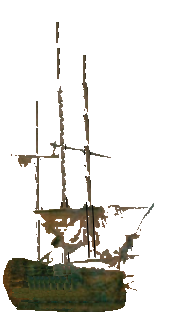
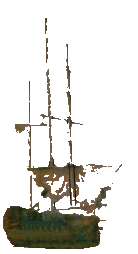
asdf

diff --git a/src/ani_helpers.py b/src/ani_helpers.py
@@ -9,7 +9,8 @@ def warp_affine_and_color(ii, ax, im_ax, g_obj, ch, parent_obj=None):
 	ax and im_ax are needed since the ax is removed from im_ax
 	g_obj is the info container of the ax (class)
 	g_obj is ship, sail or likewise
-
+	Note expl color changes are applied for sails and smokes for the ship that fires.
+	Waves have to be sorted out some other way.
 	"""
 
 	im_ax[g_obj.index_im_ax].remove()  # BOTH NECESSARY
@@ -17,18 +18,15 @@ def warp_affine_and_color(ii, ax, im_ax, g_obj, ch, parent_obj=None):
 
 	t0 = g_obj.tri_base
 	t1 = g_obj.tris[g_obj.clock]
-	pic = g_obj.pic.copy()  # pic with base scale always used.
+	pic_c = g_obj.pic.copy()  # pic with base scale always used.
 	if P.A_HSV_TRANSFORM:  # and parent_obj != None:
-		pic = change_brightness_contrast(pic, ii, g_obj)
+		change_brightness_contrast(pic_c, ii, g_obj)  # OBS overwrites the static image AND changes pic (copy)
 
 	if P.A_SAIL_HEIGHTS_TROUGHS_TRANSFORM and g_obj.__class__.__name__ == 'Sail':
-		# pic = g_obj.apply_heights_troughs_transform(pic, ch['ships'][parent_obj.gi['id']]['firing_frames'], i)
-		pic = g_obj.apply_heights_troughs_transform(pic, ii)
-		# pic = g_obj.apply_heights_troughs_transform(pic, i)
-
+		pic = g_obj.apply_heights_troughs_transform(pic_c, ii)
 
 	M = cv2.getAffineTransform(t0, t1)
-	dst = cv2.warpAffine(pic, M, (int(g_obj.tri_ext['max_ri']), int(g_obj.tri_ext['max_do'])))
+	dst = cv2.warpAffine(pic_c, M, (int(g_obj.tri_ext['max_ri']), int(g_obj.tri_ext['max_do'])))
 	img = np.zeros((g_obj.mask_do, g_obj.mask_ri, 4))
 	img[img.shape[0] - dst.shape[0]:, img.shape[1] - dst.shape[1]:, :] = dst
 	im_ax.insert(g_obj.index_im_ax, ax.imshow(img, zorder=g_obj.gi['zorder'], alpha=1))
@@ -69,34 +67,47 @@ def decrement_all_index_im_ax(index_removed, ships, waves):
 
 def change_brightness_contrast(pic, ii, g_obj):
 	"""
+	R   G   B   !   !   !
 	https://stackoverflow.com/questions/39308030/how-do-i-increase-the-contrast-of-an-image-in-python-opencv
 
-	Might get super expensive to do this for ships at each frame
+	Might get super expensive to do this for ships at each frame. So instead set
 	expl_at_coords: coordinates where there are active expls this frame (the expl "event" continues more frames
 	than the expl is shown).
 
-	OBS if brightness reaches threshold things WILL get messed up, e.g. brightness cannot be restored ok.
-		:param value:
-		:param ship_pic:
-		:return:
+	Not applied for expls
 
 	"""
 	if g_obj.__class__.__name__ != 'Sail':  # TEMP
 		return pic
 
+	# HARDCODED UPDATES (ONLY DARKENING) =================
+	if P.A_HARDCODED_DARKENING == 1:
+		ship_ab_at_clock = g_obj.ship.gi['alpha_and_bright'][g_obj.ship.ab_clock]
+		if ii == ship_ab_at_clock[0]:
+
+			# brightness TODO: will need lots of tuning
+			g_obj.pic[:, :, 0] = g_obj.pic[:, :, 0] * ship_ab_at_clock[2]
+			g_obj.pic[:, :, 1] = g_obj.pic[:, :, 1] * ship_ab_at_clock[2]
+			g_obj.pic[:, :, 2] = g_obj.pic[:, :, 2] * ship_ab_at_clock[2]
+
+	# FIRING UPDATES = ===================
 	if ii in g_obj.ship.gi['firing_frames']:
-		ex = 0.95
+		ex = 1.84
 		# if iii in firing_frames:
 		# 	ex = 0.84  # decrease in green and blue
 		# pic = _s.pic.copy()  # REQUIRED
-		pic[:, :, 0] = pic[:, :, 0]   # more y=more red, less=more green
+		pic[:, :, 0] = pic[:, :, 0] * ex  # more y=more red, less=more green
+		pic[:, :, 0][pic[:, :, 0] > 1.0] = 1.0
 		pic[:, :, 1] = pic[:, :, 1] * ex   # more y=more green, less=more red
+		pic[:, :, 1][pic[:, :, 1] > 1.0] = 1.0
 		pic[:, :, 2] = pic[:, :, 2] * ex  # Needed to complement red and green
+		pic[:, :, 2][pic[:, :, 2] > 1.0] = 1.0
 
 
 
 	aa = 5
 
+	# HSV (perhaps not needed)
 	# img = ship_pic
 	# hsv = cv2.cvtColor(pic, cv2.COLOR_BGR2HSV)
 	# h, s, v = cv2.split(hsv)

diff --git a/images/image_processing.py b/images/image_processing.py
@@ -18,18 +18,19 @@ THRESHOLD_SHIP_EXPL = 0.99
 
 
 def process_alpha(pic_in, file_name):
-    """BRG!!! """
+    """RGB!!! """
 
+    THRESHOLD_R = 0.98
     THRESHOLD_B = 0.92
     THRESHOLD_G = 0.98
-    THRESHOLD_R = 0.98
 
-    if file_name.split('.')[0] in ['0', '1', '2', '3', '4', '5', '6', '7', '0',]:
+
+    if file_name.split('.')[0] in ['0', '1', '2', '3', '4', '5', '6', '7', '0',]:  # ships (not as strict).
+        THRESHOLD_R = 0.5
         THRESHOLD_B = 0.5
         THRESHOLD_G = 0.5
-        THRESHOLD_R = 0.5
 
-        asdf = 5
+
     save_status = 1  # 0: don't save, 1: save right now
 
     if pic_in.shape[2] == 3:  # if no alpha layer -> create it
@@ -38,12 +39,13 @@ def process_alpha(pic_in, file_name):
 
     pic = pic_in.copy()
 
+    alpha_r = np.where(pic_in[:, :, 2] > THRESHOLD_R, 0.0, 1)  # where alpha should be 1, and 0 otherwise
     alpha_b = np.where(pic_in[:, :, 0] > THRESHOLD_B, 0.0, 1)  # alpha should be 0 wherever things are too white
     alpha_g = np.where(pic_in[:, :, 1] > THRESHOLD_G, 0.0, 1)  # if it's too bright make it 0, 1 otherwise
-    alpha_r = np.where(pic_in[:, :, 2] > THRESHOLD_R, 0.0, 1)  # where alpha should be 1, and 0 otherwise
+
 
     if file_name[0:4] == 'expl':  # this may be unmaintainable
-        prod = alpha_r
+        prod = alpha_r  # because expl is really white to start with
     else:
         prod = alpha_g * alpha_b * alpha_r  # this sets more frames to 0.0
 
@@ -266,7 +268,7 @@ for folder_name_outer in folder_names_outer:
         for file_name in file_names_inner:
 
             file_name_split = file_name.split('_')
-            if file_name_split[0] == 'expl':
+            if file_name == 'w_0_369_272.png':
                 adf = 5
             # if 'm.png' in file_name_split:
             #     continue  # masks are loaded separately below

diff --git a/src/trig_functions.py b/src/trig_functions.py
@@ -44,6 +44,11 @@ def _sigmoid(x, grad_magn_inv=None, x_shift=None, y_magn=None, y_shift=None):
 	return (1 / (math.exp(-x / grad_magn_inv + x_shift) + y_magn)) + y_shift  # finfin
 
 
+def sin_exp_experiment(X):
+	Y = (0.2 * np.sin(X) + 0.05 * np.sin(X) + 0.4 * np.log(X) / np.log(P.FRAMES_TOT)) - 0.1
+	return Y
+
+
 if __name__ == '__main__':
 
 	fig, ax = plt.subplots(figsize=(10, 6))
@@ -55,6 +60,14 @@ if __name__ == '__main__':
 	# SMOKA ============
 	X = np.arange(0, 50, 1)  # large: 960
 	Y = np.asarray(([_sigmoid(x, grad_magn_inv=- len(X) / 10, x_shift=-6, y_magn=1.2, y_shift=0) for x in X]))  # smoka
+
+	# FIr:
+	X = np.arange(0, 50, 1)  # large: 960
+	Y = sin_exp_experiment(X)
+	'''
+	Need do create candidate list and check mass and see whether there are too many 
+	fires per moving average unit. 
+	'''
 
 	ax.plot(X, Y, '-')
 	# plt.xlim([-5, NUM])

diff --git a/src/layers/abstract.py b/src/layers/abstract.py
@@ -17,6 +17,7 @@ class AbstractLayer:
     def __init__(_s):
         _s.drawn = 0  # 0: not drawn, 1: start drawing, 2. continue drawing, 3. end drawing, 4: dynamic flag usage
         _s.clock = 0
+        _s.ab_clock = 0  # alpha_brightness clock
         _s.frames_num = None  # number of frames to animate for
         _s.frame_ss = None
         # _s.frame_ss_start_offset = None

diff --git a/temp.py b/temp.py
@@ -5,11 +5,13 @@ import matplotlib.pyplot as plt
 
 fig, ax = plt.subplots(figsize=(12, 8))
 
-# x = np.linspace(0, 1.0, 100)
-x = np.linspace(0, 1.0, 100)
-ax.plot(x, norm.pdf(x, loc=0.5, scale=0.15) / 2.7, 'r-', lw=5, alpha=0.6, label='norm pdf')
+A = np.random.random((3, 6))
+ex = 1.3
+A = A * ex
+A[A > 1.0] = 1.0
+
 
 plt.show()
-ff = 5
+
 
 # HOW TO

diff --git a/P.py b/P.py
@@ -10,11 +10,12 @@ FRAMES_TOT = FRAMES_STOP - FRAMES_START
 # A (what to animate) ========
 A_AFFINE_TRANSFORM = 1
 A_SAILS = 1
-A_SAIL_HEIGHTS_TROUGHS_TRANSFORM = 1
+A_SAIL_HEIGHTS_TROUGHS_TRANSFORM = 0
 A_HSV_TRANSFORM = 1
 A_SMOKAS = 0
 A_WAVES = 0
 A_EXPLS = 1
+A_HARDCODED_DARKENING = 0
 
 NUM_WAVES = 7  # NUM per pic!!!
 NUM_SMOKAS = 2

diff --git a/main.py b/main.py
@@ -166,7 +166,6 @@ def animate(i):
                         decrement_all_index_im_ax(index_removed, ships, waves)
                         continue
 
-
                     warp_affine_and_color(i, ax, im_ax, smoka, ch)  # parent obj required for sail
 
                     im_ax[smoka.index_im_ax].set_alpha(smoka.alpha[smoka.clock])

diff --git a/src/load_pics.py b/src/load_pics.py
@@ -3,6 +3,7 @@ import P as P
 from matplotlib.pyplot import imread
 
 def load_pics():
+    """LOADS BGR"""
 
     pics = {}
     pics['waves'] = {}
